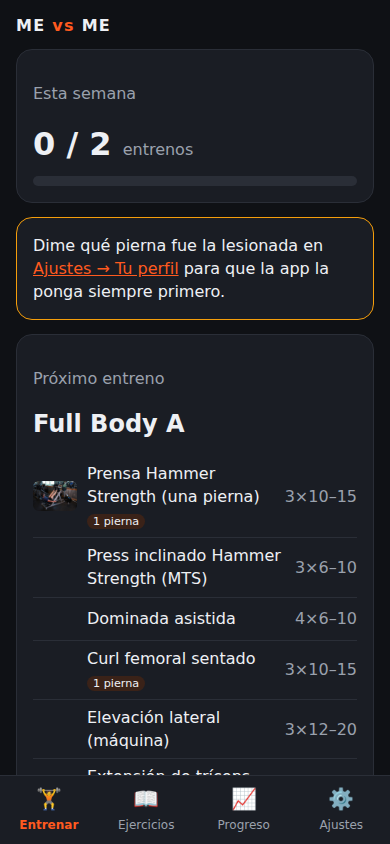
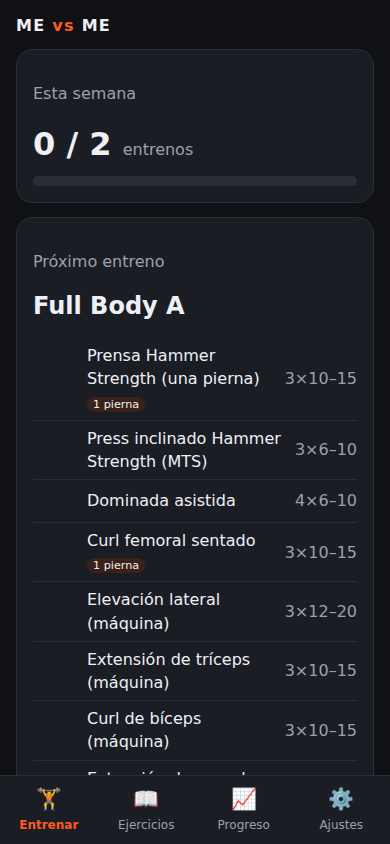
Copia en la nube y exportación cuando la app corre como artefacto de Claude
Claude-Session: https://claude.ai/code/session_014BSxVM4DFdT3uXbxLv5yHx

diff --git a/js/app.js b/js/app.js
@@ -27,6 +27,71 @@ function load() {
 let state = load();
 function save() {
   try { localStorage.setItem(KEY, JSON.stringify(state)); } catch { /* almacenamiento no disponible */ }
+  cloudPush();
+}
+
+// ---------- Copia en la nube (solo cuando la app corre como artefacto de Claude) ----------
+// Perfil y entreno en curso en `profile/me`; cada entreno terminado en `workouts/<id>`.
+let cloud = null;
+let cloudStatus = 'off'; // off | on | error
+const pushed = new Set();
+let pushTimer = null;
+
+async function cloudInit() {
+  if (!window.claude?.use) return;
+  try {
+    const db = await window.claude.use('db');
+    if (!db) return;
+    const [me, ws] = await Promise.all([db.doc('profile/me').get(), db.collection('workouts').get()]);
+    const remote = ws.docs.map((d) => d.data()).filter((w) => w && Array.isArray(w.entries));
+    const ids = new Set(state.workouts.map((w) => w.id));
+    const missing = remote.filter((w) => !ids.has(w.id));
+    remote.forEach((w) => pushed.add(w.id));
+    if (missing.length) {
+      state.workouts = [...state.workouts, ...missing].sort((a, b) => new Date(a.date) - new Date(b.date));
+    }
+    // Sin nada local (otro dispositivo o datos borrados por el navegador): recupera perfil y entreno en curso.
+    const body = me.exists ? me.data() : null;
+    if (body && !localStorage.getItem(KEY)) {
+      state = hydrate({ ...state, settings: body.settings, current: body.current ?? null });
+    }
+    cloud = db;
+    cloudStatus = 'on';
+    try { localStorage.setItem(KEY, JSON.stringify(state)); } catch { /* sin almacenamiento */ }
+    cloudPush();
+    if (missing.length || body) render();
+  } catch {
+    cloudStatus = 'error';
+  }
+}
+
+function cloudPush() {
+  if (!cloud) return;
+  clearTimeout(pushTimer);
+  pushTimer = setTimeout(async () => {
+    try {
+      await cloud.doc('profile/me').set({ settings: state.settings, current: state.current, updatedAt: new Date().toISOString() });
+      for (const w of state.workouts) {
+        if (pushed.has(w.id)) continue;
+        await cloud.doc(`workouts/${w.id}`).set(w);
+        pushed.add(w.id);
+      }
+      cloudStatus = 'on';
+    } catch {
+      cloudStatus = 'error';
+    }
+  }, 800);
+}
+
+async function cloudReset() {
+  if (!cloud) return;
+  try {
+    const ws = await cloud.collection('workouts').get();
+    for (const d of ws.docs) await cloud.doc(`workouts/${d.id}`).delete();
+    pushed.clear();
+  } catch {
+    cloudStatus = 'error';
+  }
 }
 const profile = () => state.settings.profile;
 
@@ -461,7 +526,11 @@ function renderSettings() {
     </section>
     <section class="card">
       <h3>Tus datos</h3>
-      <p class="muted">Se guardan solo en este dispositivo. Exporta una copia de vez en cuando.</p>
+      <p class="muted">${cloudStatus === 'on'
+        ? 'Se guardan en este dispositivo y con copia automática en tu cuenta de Claude ✓'
+        : cloudStatus === 'error'
+          ? 'La copia en la nube falló; tus datos siguen en este dispositivo. Exporta una copia.'
+          : 'Se guardan solo en este dispositivo. Exporta una copia de vez en cuando.'}</p>
       <button class="ghost" id="export">Exportar copia (JSON)</button>
       <label class="ghost file">Importar copia<input type="file" accept="application/json" id="import" hidden></label>
       <button class="ghost danger" id="reset">Borrar todo</button>
@@ -480,10 +549,21 @@ function renderSettings() {
   main.querySelectorAll('[data-days]').forEach((b) => {
     b.onclick = () => { state.settings.daysPerWeek = Number(b.dataset.days); save(); render(); };
   });
-  $('#export').onclick = () => {
+  $('#export').onclick = async () => {
+    const filename = `me-vs-me-${new Date().toISOString().slice(0, 10)}.json`;
+    const downloads = window.claude?.use ? await window.claude.use('downloads') : null;
+    if (downloads) {
+      try {
+        await downloads.save({ filename, data: JSON.stringify(state, null, 2) });
+        toast('Copia guardada');
+      } catch (err) {
+        if (err?.code !== 'declined') toast('No se pudo guardar la copia aquí');
+      }
+      return;
+    }
     const a = document.createElement('a');
     a.href = URL.createObjectURL(new Blob([JSON.stringify(state, null, 2)], { type: 'application/json' }));
-    a.download = `me-vs-me-${new Date().toISOString().slice(0, 10)}.json`;
+    a.download = filename;
     a.click();
   };
   $('#import').onchange = async (ev) => {
@@ -501,6 +581,7 @@ function renderSettings() {
   $('#reset').onclick = async () => {
     if (!await ask('¿Borrar todos tus entrenos? No se puede deshacer.', 'Borrar todo')) return;
     state = defaults();
+    await cloudReset();
     save();
     render();
   };
@@ -563,3 +644,4 @@ if ('serviceWorker' in navigator && location.protocol !== 'file:') {
 }
 
 render();
+cloudInit();
